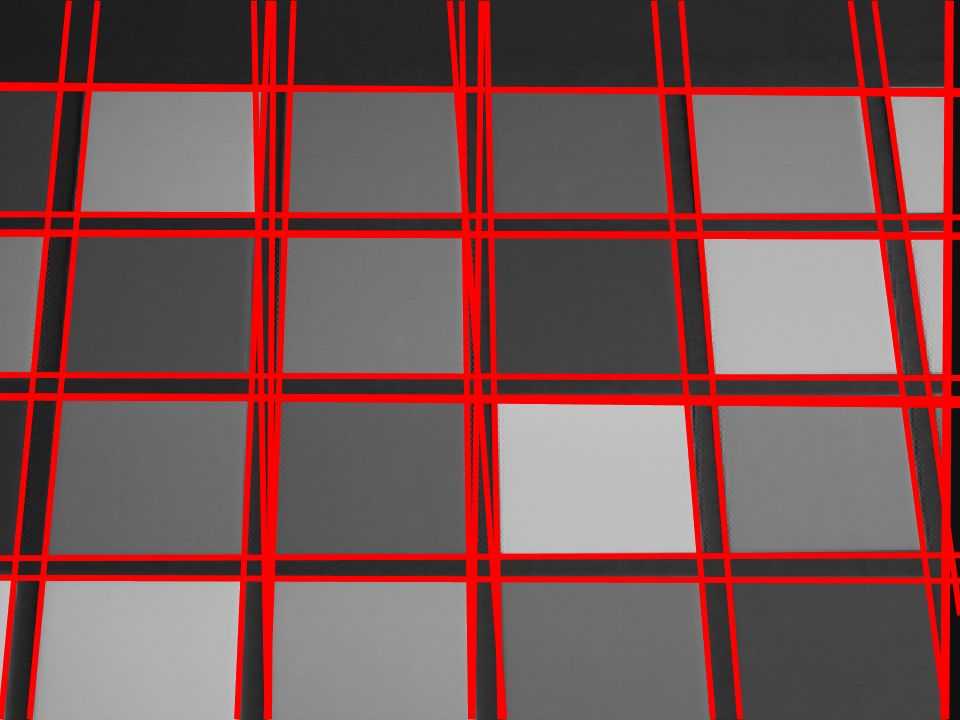
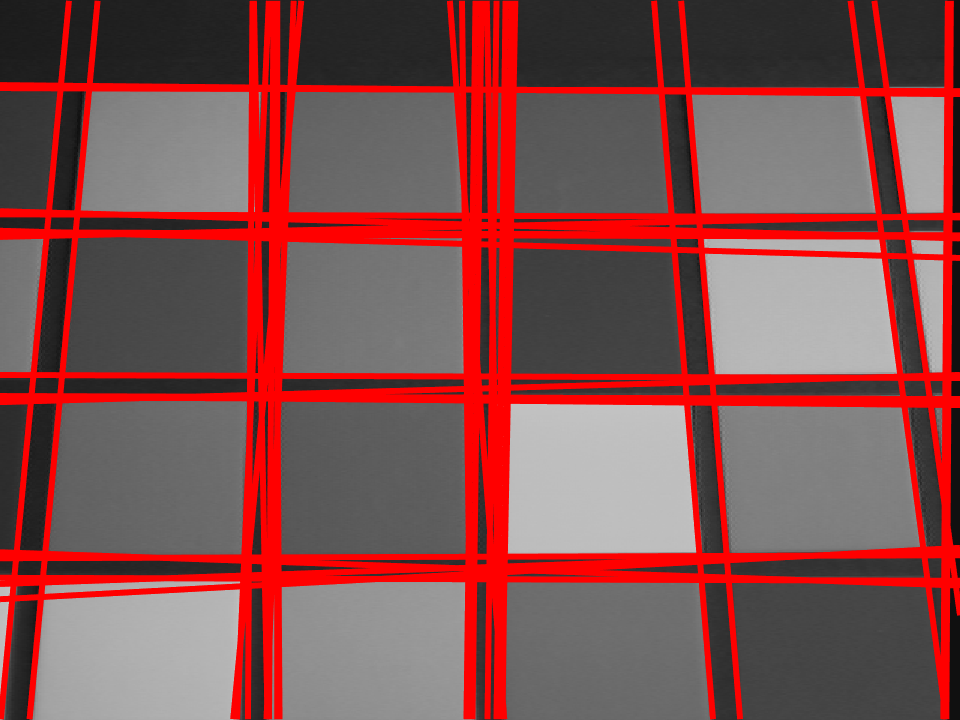
Add more details

diff --git a/LineFinder/lineSegmentFinder.m b/LineFinder/lineSegmentFinder.m
@@ -1,4 +1,8 @@
 function cropped_line_img = lineSegmentFinder(orig_img, hough_img, hough_threshold, canny_threshold)
+    % references:
+    % https://github.com/Rad-hi/crop_line_detector_cv/blob/master/scripts/cropLineDetector.py
+    % https://www.mathworks.com/help/signal/ug/remove-spikes-from-a-signal.html
+
     fig = figure();
     imshow(orig_img);
 
@@ -11,18 +15,18 @@ function cropped_line_img = lineSegmentFinder(orig_img, hough_img, hough_thresho
     % find peaks
     strong_hough_img = hough_img;
     [hough_img_H, hough_img_W] = size(hough_img);
-	window_H = round((4 * N_rho) / max(H, W)); % coefficient are gained from trials
-    window_W = round((6 * N_theta) / 360);
+	window_H = 4; % try to make window_H : window_W = hough_img_H : hough_img_W
+    window_W = 6;
     peaks = zeros(size(hough_img));
     for i = 1:hough_img_H
         for j = 1:hough_img_W
             if hough_img(i, j) > 0
-                top = max(i - window_W, 1);
-                bottom = min(i + window_W, hough_img_H);
-                left = max(j - window_H, 1);
-                right = min(j + window_H, hough_img_W);
-                window_temp = hough_img(top:bottom, left:right);
-                peaks(i, j) = verifyPeak(window_temp, i - top + 1, j - left + 1);
+                x_low = max(j - window_H, 1);
+                x_high = min(j + window_H, hough_img_W);
+                y_low = min(i + window_W, hough_img_H);
+                y_high = max(i - window_W, 1);
+                window_temp = hough_img(y_high:y_low, x_low:x_high);
+                peaks(i, j) = verifyPeak(window_temp, i - y_high + 1, j - x_low + 1);
             end
         end
     end
@@ -76,7 +80,7 @@ function cropped_line_img = lineSegmentFinder(orig_img, hough_img, hough_thresho
                 end
                 
                 % get points on the segment
-                distance = ceil(sqrt((x1-x2)^2 + (y1-y2)^2));
+                distance = round(sqrt((x1-x2)^2 + (y1-y2)^2)) + 1;
                 range = linspace(0, 1, distance);
                 points = zeros(distance, 2);
                 for d = 1:distance
@@ -86,34 +90,16 @@ function cropped_line_img = lineSegmentFinder(orig_img, hough_img, hough_thresho
                 % get the points' indices from edges
                 seg_ind = sub2ind(size(edges), points(:,2), points(:,1));
                 seg_edge = edges(seg_ind);
-                
-                % calculate the median values around each point, the range n is based on trial
-                seg_edge = medfilt1(single(seg_edge), 13); % medfilt1(x,n) applies an nth-order one-dimensional median filter to x
-                                
-                D = zeros(distance, distance);
-                line_exist = false;
-                for k = 1:distance
-                    if seg_edge(k)
-                        for l = k+1:distance
-                            if seg_edge(l)
-                                segment = seg_edge(k:l);
-                                density = sum(segment) / (l - k);
-                                
-                                if density > 0.5
-                                    line_exist = true;
-                                    D(k, l) = l - k;
-                                end
-                            end
-                        end
-                    end
-                end
-                [~, ind_max] = max(D(:));
-                [kmax, lmax] = ind2sub(size(D), ind_max);
-                x1 = points(kmax, 1);
-                x2 = points(lmax, 1);
-                y1 = points(kmax, 2);
-                y2 = points(lmax, 2);
-                if line_exist
+                [has_segment, segment] = splitSegment(distance, seg_edge);
+
+                % [M,I] = max(___) returns the index into the operating dimension that corresponds to the maximum value
+                [~, point_index] = max(segment(:));
+                [point1, point2] = ind2sub(size(segment), point_index);
+                x1 = points(point1, 1);
+                x2 = points(point2, 1);
+                y1 = points(point1, 2);
+                y2 = points(point2, 2);
+                if has_segment
                     % draw on the figure
             	    hold on
                     line([x1, x2], [y1, y2], 'Color', 'red', 'LineWidth', 3);
@@ -156,6 +142,25 @@ function [x,y] = checkSegment(x1_temp, x1, y1, x_min, x_max, theta, rho, x_cente
         y1_temp = (x1_temp * sin(theta) + rho) / cos(theta);
         x = x1_temp + x_center;
         y = y1_temp + y_center;
+    end
+end
+
+function [has_segment, segment] = splitSegment(distance, seg_edge)
+    % remove noise with the median values around each point
+    seg_edge = medfilt1(single(seg_edge), 13); % value gained by trials
+
+    has_segment = false;
+    segment = zeros(distance, distance);
+    for i = 1:distance
+        for j = (i+1):distance
+            if seg_edge(i) ~= 0 && seg_edge(j) ~= 0                             
+                if sum(seg_edge(i:j)) > (j - i) / 2
+                    % enough pixels to be a segment, rather than a dot or something else
+                    has_segment = true;
+                    segment(i, j) = j - i;
+                end
+            end
+        end
     end
 end
 

diff --git a/LineFinder/generateHoughAccumulator.m b/LineFinder/generateHoughAccumulator.m
@@ -1,4 +1,8 @@
 function hough_img = generateHoughAccumulator(img, theta_num_bins, rho_num_bins)
+    % references:
+    % https://towardsdatascience.com/lines-detection-with-hough-transform-84020b3b1549
+    % https://web.ipac.caltech.edu/staff/fmasci/home/astro_refs/HoughTrans_lines_09.pdf
+
 	% initialize H(d,θ) = 0
     hough_img = zeros(rho_num_bins, theta_num_bins);
 	
@@ -14,22 +18,38 @@ function hough_img = generateHoughAccumulator(img, theta_num_bins, rho_num_bins)
     x_edge = x(img > 0);
     y_edge = y(img > 0);
     
-    % calculate rho and theta for the edge pixels
-    thetas = linspace(-pi/2, pi/2, theta_num_bins); % radiation pi
-    rho_max = sqrt(H^2 + W^2) / 2; % image diagnol
-    rho_min = -rho_max;
+    % calculate rho and theta for the edge pixels when the image is centered
+    % Note that: all lines can be represented when θ ∈ [0, 180] ([-90, 90]) and r ∈ R, or θ ∈ [0, 360] and r ≥ 0
+    %{
+                y ↑                           ρ ↑
+              ____|____ a                       | ← rho_max (a)
+             |    |    |                        |
+        ---------------------→ x      ---------------------→ θ
+             |____|____| H/2           ↑ -pi/2  |        ↑ pi/2
+            b     | W/2                         | ← rho_min (b)
+        
+    %}
+    rho_max = sqrt(H^2 + W^2) / 2; % positive half of image diagnol
+    rho_min = -sqrt(H^2 + W^2) / 2; % negative half of image diagnol
+    rho_range = (rho_max - rho_min) / (rho_num_bins - 1); % get the proportion
+    thetas = linspace(-pi/2, pi/2, theta_num_bins);
 
-    % get rho_edges by x * sin(θ) - y * cos(θ) + ρ = 0
-    sincos = [sin(thetas); cos(thetas)];
+    % get rho_edges by x * sin(θ) - y * cos(θ) + ρ = 0 -> ρ = - x * sin(θ) + y * cos(θ)
     xy_edges = [-x_edge, y_edge];
+    sincos = [sin(thetas); cos(thetas)];
     rho_edges = xy_edges * sincos;
 
-    % get rho_votes
-    rho_vote_bins = round((rho_edges - rho_min) * (rho_num_bins - 1) / (rho_max - rho_min)) + 1;
+    % get rho_votes by the current rho's proportion in rho_range
+    % the value is at least one
+    rho_vote_bins = round((rho_edges - rho_min) / rho_range) + 1;
 
+    % get theta_votes
+    % mimicing documentation with correct size: [H,T,R] = hough(BW,'RhoResolution',0.5,'Theta',-90:0.5:89);
     theta_vote_bins = 1:1:theta_num_bins;
+
+    % map to corresponding index in the hough_img array and accumulate votes
+    % rho -> row; theta -> column
     for i = 1:size(rho_vote_bins, 1)
-        % map to corresponding index in the hough_img array and accumulate votes
         ind = sub2ind(size(hough_img), rho_vote_bins(i,:), theta_vote_bins); % ind = sub2ind(sz,row,col)
         hough_img(ind) = hough_img(ind) + 1;
     end

diff --git a/LineFinder/lineFinder.m b/LineFinder/lineFinder.m
@@ -1,4 +1,9 @@
 function line_detected_img = lineFinder(orig_img, hough_img, hough_threshold)
+    % references:
+    % https://www.mathworks.com/help/images/ref/houghpeaks.html#d124e125722
+    % https://github.com/sfoerster/matlab/blob/master/hough/hough_peaks.m
+    % https://github.com/sfoerster/matlab/blob/master/hough/hough_lines_acc.m
+
     fig = figure();
     imshow(orig_img);
     
@@ -11,18 +16,18 @@ function line_detected_img = lineFinder(orig_img, hough_img, hough_threshold)
     % find peaks
     strong_hough_img = hough_img;
     [hough_img_H, hough_img_W] = size(hough_img);
-	window_H = round((4 * N_rho) / max(H, W)); % coefficient are gained from trials
-    window_W = round((6 * N_theta) / 360);
+	window_H = 4; % try to make window_H : window_W = hough_img_H : hough_img_W
+    window_W = 6;
     peaks = zeros(size(hough_img));
     for i = 1:hough_img_H
         for j = 1:hough_img_W
             if hough_img(i, j) > 0
-                top = max(i - window_W, 1);
-                bottom = min(i + window_W, hough_img_H);
-                left = max(j - window_H, 1);
-                right = min(j + window_H, hough_img_W);
-                window_temp = hough_img(top:bottom, left:right);
-                peaks(i, j) = verifyPeak(window_temp, i - top + 1, j - left + 1);
+                x_low = max(j - window_H, 1);
+                x_high = min(j + window_H, hough_img_W);
+                y_low = min(i + window_W, hough_img_H);
+                y_high = max(i - window_W, 1);
+                window_temp = hough_img(y_high:y_low, x_low:x_high);
+                peaks(i, j) = verifyPeak(window_temp, i - y_high + 1, j - x_low + 1);
             end
         end
     end

diff --git a/LineFinder/README.md b/LineFinder/README.md
@@ -6,8 +6,11 @@ I used canny in the later part of the homework though.
 
 ## Hough Transform
 I used 800 as rho_nums_bins to relate to the diagonal size of the picture (640 x 426 -> diagnol is around 768, and I round it up to a full hundred).  
-For theta_nums_bins, I tried a few numbers (between 200 to 600) and chose 500 as it looks the best to me.  
+For theta_nums_bins, I chose 500 as it is large enough to contains the shorter edge (426, in this case).  
 To perform voting from each edge pixel, I chose to have each (rho, theta) pair with one vote.  
+Rho is calculated with its corresponding proportion of the current rho value out of rho_range (= rho_max - rho_min).  
+Theta is gained as linspace, which is inspired by the official documentation.  
+According to some search on StackOverflow, it seems possible to use sub2ind() to get the indices on hough_img.  
 This might not be the most accurate method, but it's easy to implement and the result is good enough.  
 
 ## Find Peaks
@@ -20,13 +23,12 @@ Linking the two points with a solid line, we could get the result as desired.
 ## Line Segments
 I used the threshold method again, and all thresholds are gained by trials.  
 After we got line image and edge image, the whole manipulation was appyied to edge image.  
-For each point we got, we need to verify if they are actually on the image -- ignore those that are not, and keep the topmost ones that are.  
+For each possible segment we got, we process it by three steps.  
+First, we need to verify if the points are actually on the image -- ignore those that are not, and keep the topmost ones that are.  
 This helps remove the redundant part of the line drawn in the previous part.  
-Note that I searched online and found the median filter method to remove the "noise", which is the noisy lines around the edges in this case.  
-With all the points we have so far, we need to detect the actual end-points on each segment.  
-To do this, I looped through all points and added another experimental threshold to check if the density is above that threshold.  
-If there are enough points to make the density beyond the threshold, then we could be certain that there is a segment there.  
-Therefore, we could draw the segment accordingly.  
+Second, we try to remove the noise around the line and detect the real segment, that is, remove the segments that are too short or only contain a few pixels.  
+Third, we go ahead and split the real segment out and get its two endpoints.  
+With the endpoints, we could draw the segment accordingly.  
 
 ## Review
 I have tried various methods to eliminate the vertical line on the right most part of the second and third picture.  
